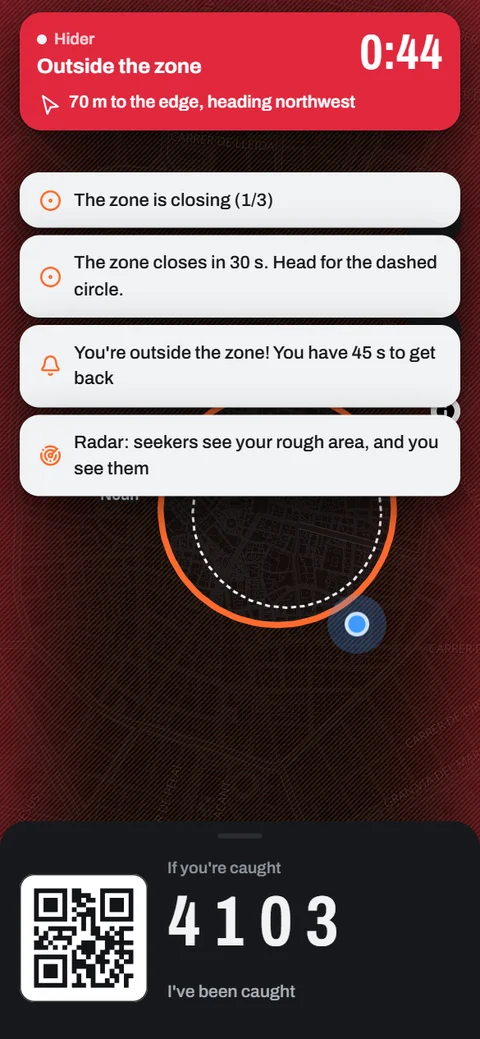
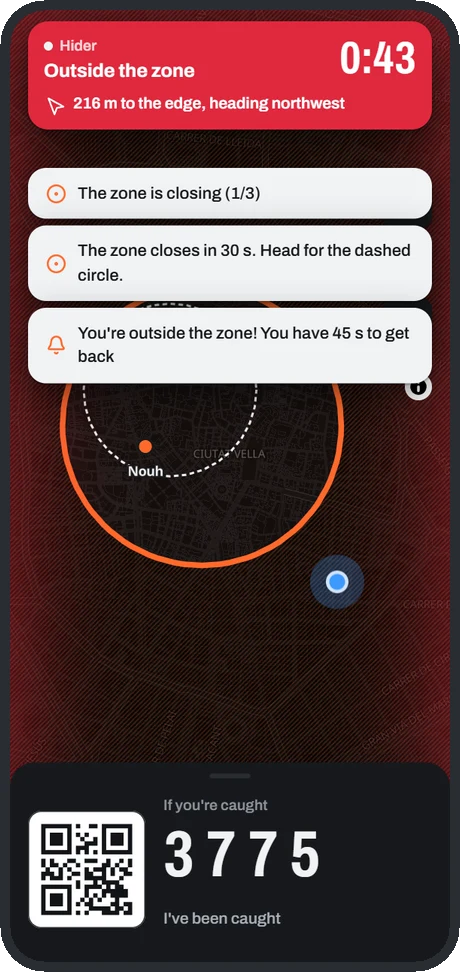
Show the gameplay recording in a phone frame, centred, without a table
- One hider's recording framed like a phone with rounded corners, in
  versions for GitHub's light and dark themes
- The recording sits under the introduction instead of in a two-column
  table, and the simulation hint is hidden from it
- Screenshots get the same frame, with transparent corners

diff --git a/README.md b/README.md
@@ -20,29 +20,19 @@
   <a href="LICENSE"><img src="https://img.shields.io/badge/license-MIT-blue" alt="MIT license"></a>
 </p>
 
-<table>
-  <tr>
-    <td width="330" valign="top">
-      <img src="docs/assets/gameplay.gif" width="320" alt="A hider's phone during a game: the countdown, the seeker's release, the zone closing, stepping outside and back in, and winning as the last survivor">
-    </td>
-    <td valign="top">
-      <p>
-        One player seeks, everyone else hides, and the play area shrinks every
-        few minutes until a single survivor is left.
-      </p>
-      <p>
-        SeekHunt runs in the phone's browser: one person creates a room, places
-        the zone over the neighbourhood and shares the link. There is nothing
-        to install and no account to create.
-      </p>
-      <p>
-        The recording shows one hider's phone during a short game: the head
-        start, the seeker's release, the radar, the zone closing, a moment
-        outside the zone, and the final result.
-      </p>
-    </td>
-  </tr>
-</table>
+One player seeks, everyone else hides, and the play area shrinks every few
+minutes until a single survivor is left. SeekHunt runs in the phone's browser:
+one person creates a room, places the zone over the neighbourhood and shares
+the link. There is nothing to install and no account to create.
+
+<p align="center">
+  <picture>
+    <source media="(prefers-color-scheme: dark)" srcset="docs/assets/gameplay-dark.gif">
+    <img src="docs/assets/gameplay-light.gif" width="300" alt="A hider's phone during a short game: the countdown, the seeker's release, the radar, the zone closing, stepping outside the zone, and winning as the last survivor">
+  </picture>
+  <br>
+  <sub>A hider's phone during a short game, from the head start to the result.</sub>
+</p>
 
 ## How a game works
 
@@ -76,10 +66,10 @@
 - **Languages.** English and Spanish, chosen per device.
 
 <p align="center">
-  <img src="docs/assets/screen-release.webp" width="200" alt="The seeker is released">
-  <img src="docs/assets/screen-closing.webp" width="200" alt="The zone starts closing">
-  <img src="docs/assets/screen-outside.webp" width="200" alt="A hider outside the zone, with the distance and direction back">
-  <img src="docs/assets/screen-result.webp" width="200" alt="The end-of-game recap">
+  <img src="docs/assets/screen-release.webp" width="180" alt="The seeker is released">
+  <img src="docs/assets/screen-closing.webp" width="180" alt="The zone starts closing">
+  <img src="docs/assets/screen-outside.webp" width="180" alt="A hider outside the zone, with the distance and direction back">
+  <img src="docs/assets/screen-result.webp" width="180" alt="The end-of-game recap">
 </p>
 
 ## Fair play, safety and privacy

diff --git a/README.es.md b/README.es.md
@@ -20,29 +20,19 @@
   <a href="LICENSE"><img src="https://img.shields.io/badge/licencia-MIT-blue" alt="Licencia MIT"></a>
 </p>
 
-<table>
-  <tr>
-    <td width="330" valign="top">
-      <img src="docs/assets/gameplay.gif" width="320" alt="El móvil de un escondido durante una partida: la cuenta atrás, la salida del cazador, el cierre de la zona, una salida de la zona y la victoria">
-    </td>
-    <td valign="top">
-      <p>
-        Una persona busca, el resto se esconde, y la zona de juego se reduce
-        cada pocos minutos hasta que solo queda un superviviente.
-      </p>
-      <p>
-        SeekHunt funciona en el navegador del móvil: alguien crea una sala,
-        coloca la zona sobre el barrio y comparte el enlace. No hay que
-        instalar nada ni crear una cuenta.
-      </p>
-      <p>
-        La grabación muestra el móvil de un escondido durante una partida
-        corta: la ventaja inicial, la salida del cazador, el radar, el cierre de
-        la zona, un momento fuera de ella y el resultado final.
-      </p>
-    </td>
-  </tr>
-</table>
+Una persona busca, el resto se esconde, y la zona de juego se reduce cada
+pocos minutos hasta que solo queda un superviviente. SeekHunt funciona en el
+navegador del móvil: alguien crea una sala, coloca la zona sobre el barrio y
+comparte el enlace. No hay que instalar nada ni crear una cuenta.
+
+<p align="center">
+  <picture>
+    <source media="(prefers-color-scheme: dark)" srcset="docs/assets/gameplay-dark.gif">
+    <img src="docs/assets/gameplay-light.gif" width="300" alt="El móvil de un escondido durante una partida corta: la cuenta atrás, la salida del cazador, el radar, el cierre de la zona, una salida de la zona y la victoria">
+  </picture>
+  <br>
+  <sub>El móvil de un escondido durante una partida corta, del inicio al resultado.</sub>
+</p>
 
 ## Cómo es una partida
 
@@ -75,10 +65,10 @@
 - **Idiomas.** Español e inglés, según el móvil.
 
 <p align="center">
-  <img src="docs/assets/screen-release.webp" width="200" alt="Sale el cazador">
-  <img src="docs/assets/screen-closing.webp" width="200" alt="La zona empieza a cerrarse">
-  <img src="docs/assets/screen-outside.webp" width="200" alt="Un escondido fuera de la zona">
-  <img src="docs/assets/screen-result.webp" width="200" alt="El resumen final">
+  <img src="docs/assets/screen-release.webp" width="180" alt="Sale el cazador">
+  <img src="docs/assets/screen-closing.webp" width="180" alt="La zona empieza a cerrarse">
+  <img src="docs/assets/screen-outside.webp" width="180" alt="Un escondido fuera de la zona">
+  <img src="docs/assets/screen-result.webp" width="180" alt="El resumen final">
 </p>
 
 ## Juego limpio, seguridad y privacidad
